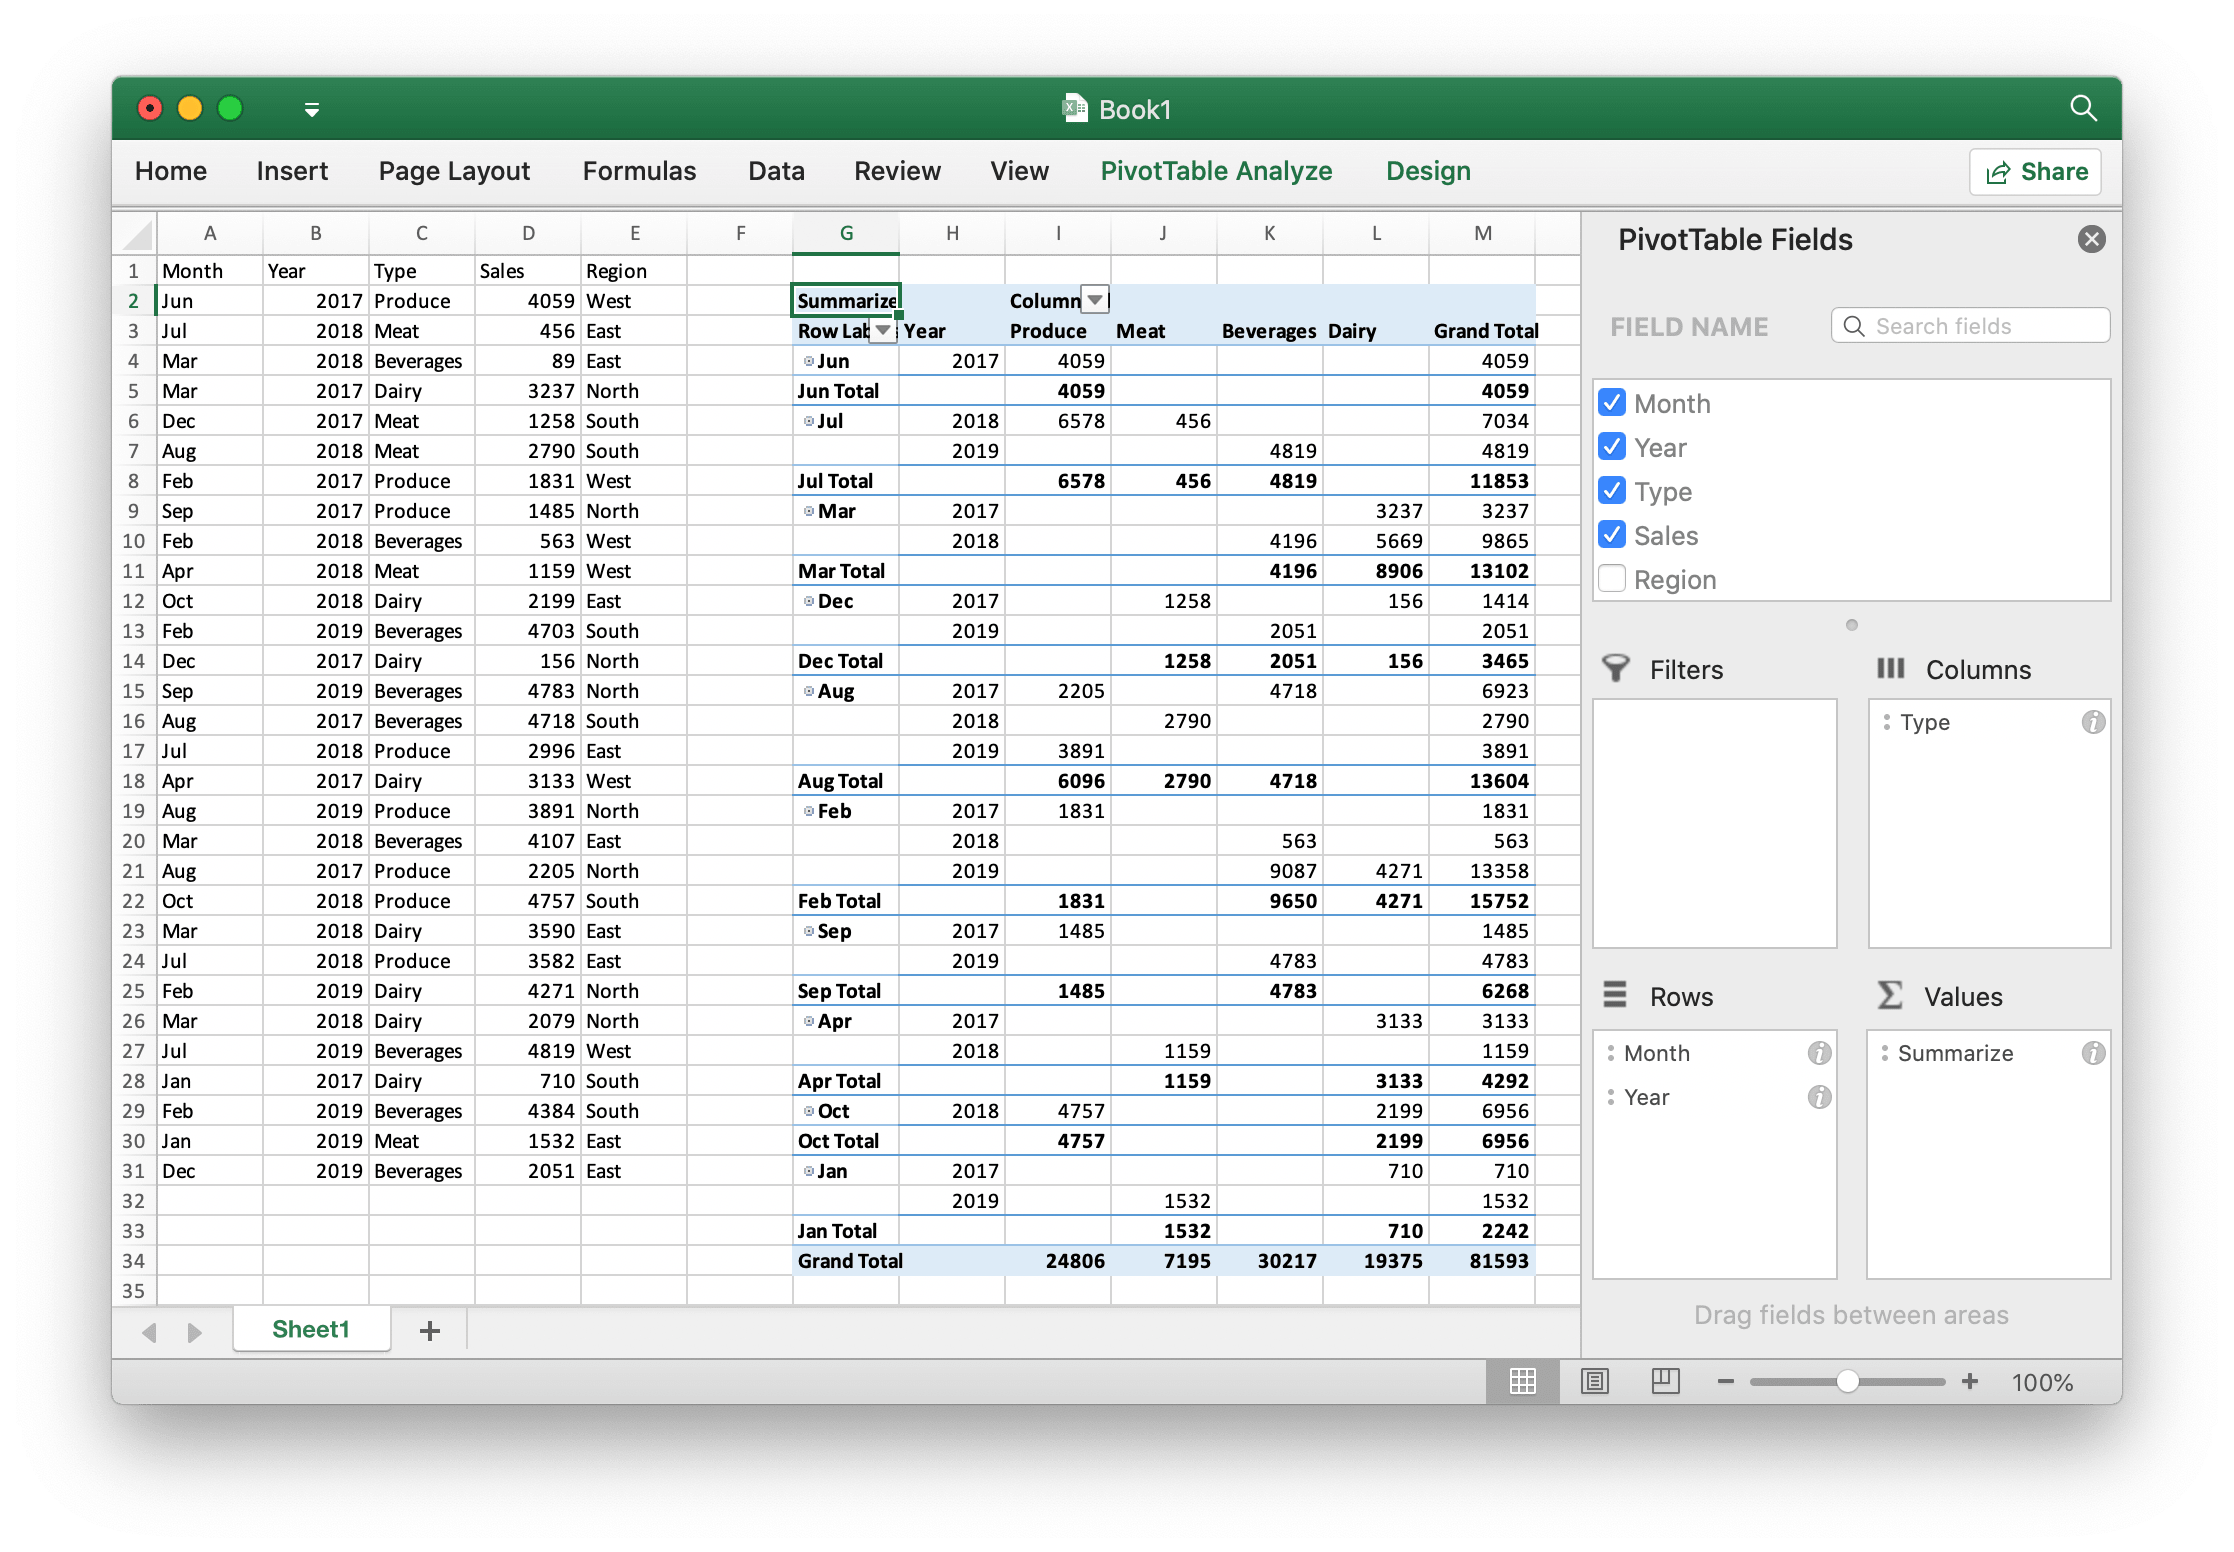
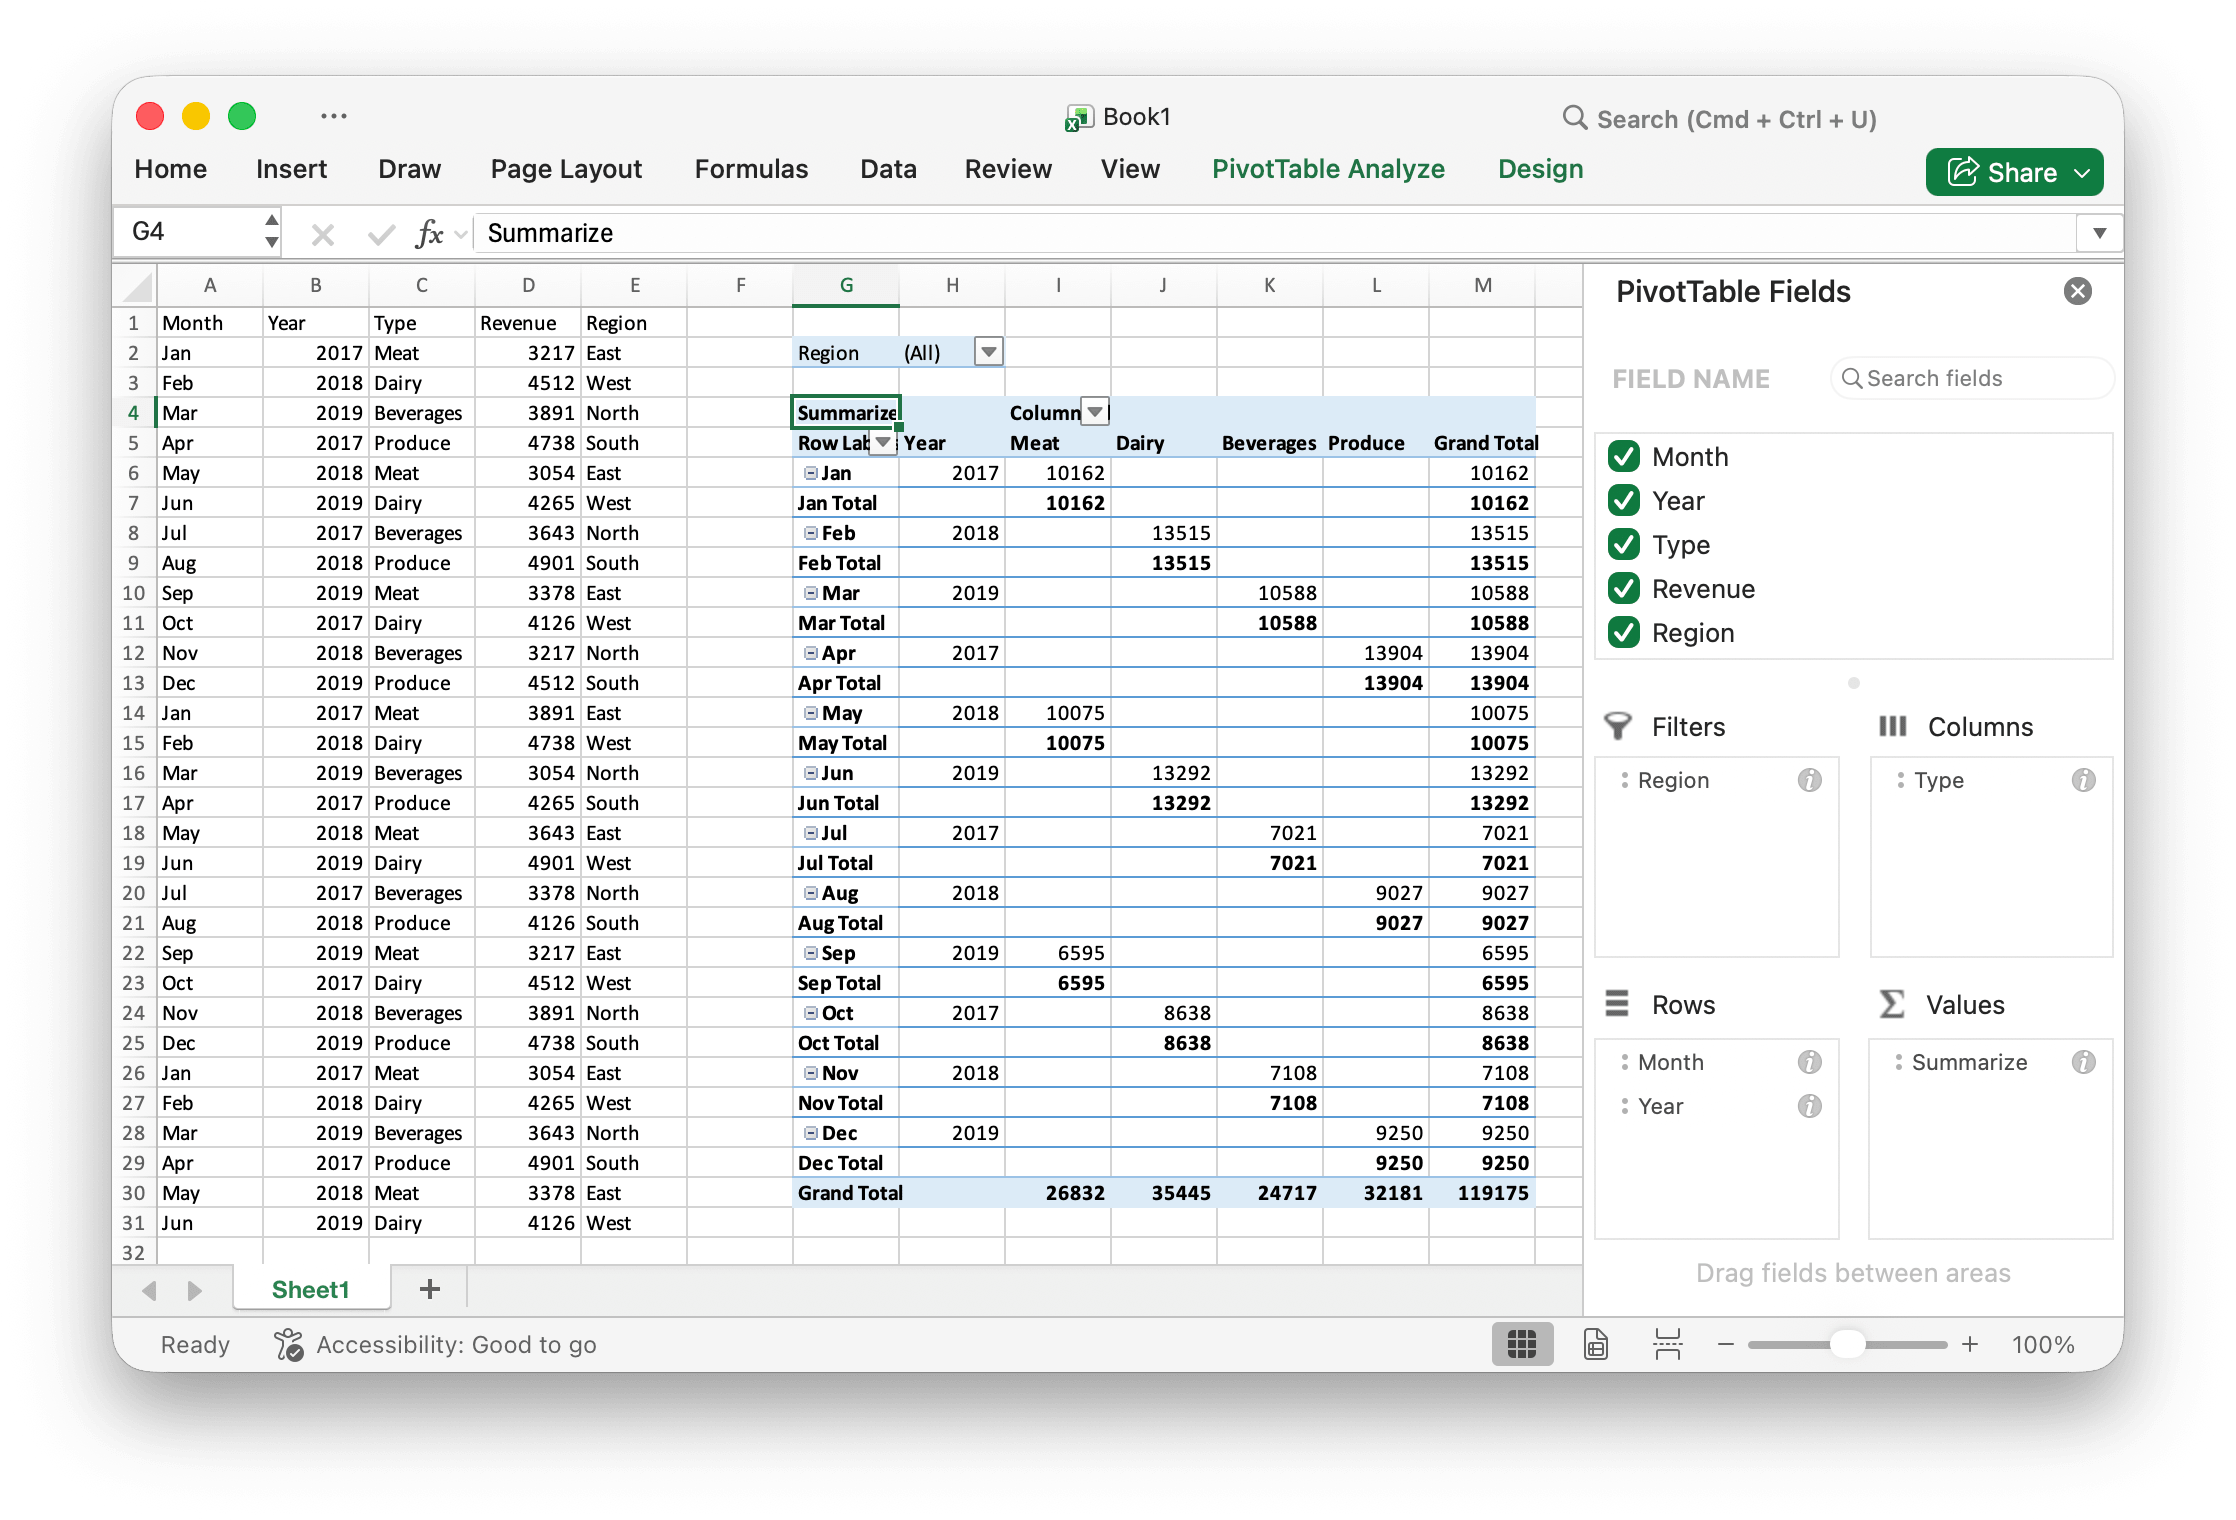
Update en version docs for new SelectedItems fields in PivotTableOptions and SlicerOptions data type
- This related for xuri/excelize#2154, and xuri/excelize#2271

diff --git a/en/pivot.md b/en/pivot.md
@@ -55,6 +55,7 @@ type PivotTableField struct {
     Subtotal        string
     DefaultSubtotal bool
     NumFmt          int
+    SelectedItems   []string
 }
 ```
 
@@ -76,6 +77,10 @@ type PivotTableField struct {
 
 `Name` specifies the name of the data field. Maximum `255` characters are allowed in data field name, excess characters will be truncated.
 
+`SelectedItems` option is used to specify the default selected items in a pivot table field. The selected items must fall within the range of items selected in the pivot table.
+
+`SelectedItems` specifies the default selected items in a pivot table field. The selected items must be values within the cell range referenced by that field.
+
 ## Create pivot table {#AddPivotTable}
 
 ```go
@@ -84,16 +89,15 @@ func (f *File) AddPivotTable(opts *PivotTableOptions) error
 
 AddPivotTable provides the method to add pivot table by given pivot table options.
 
-For example, create a pivot table on the `Sheet1!$G$2:$M$34` area with the region `Sheet1!$A$1:$E$31` as the data source, summarize by sum for sales:
+For example, create a pivot table on the `Sheet1!G4:M31` area with the region `Sheet1!A1:E31` as the data source, summarize by sum for sales:
 
-<p align="center"><img width="1117" src="./images/pivot_table_01.png" alt="create pivot table with excelize using Go"></p>
+<p align="center"><img width="1118" src="./images/pivot_table_01.png" alt="create pivot table with excelize using Go"></p>
 
 ```go
 package main
 
 import (
     "fmt"
-    "math/rand"
 
     "github.com/xuri/excelize/v2"
 )
@@ -105,31 +109,40 @@ func main() {
             fmt.Println(err)
         }
     }()
-    // Create some data in a sheet
+ Create some data in a sheet
     month := []string{"Jan", "Feb", "Mar", "Apr", "May",
         "Jun", "Jul", "Aug", "Sep", "Oct", "Nov", "Dec"}
     year := []int{2017, 2018, 2019}
     types := []string{"Meat", "Dairy", "Beverages", "Produce"}
+    revenue := []int{3217, 4512, 3891, 4738, 3054, 4265, 3643, 4901, 3378, 4126}
     region := []string{"East", "West", "North", "South"}
-    f.SetSheetRow("Sheet1", "A1", &[]string{"Month", "Year", "Type", "Sales", "Region"})
+    if err := f.SetSheetRow(
+        "Sheet1", "A1", &[]string{"Month", "Year", "Type", "Revenue", "Region"},
+    ); err != nil {
+        fmt.Println(err)
+        return
+    }
     for row := 2; row < 32; row++ {
-        f.SetCellValue("Sheet1", fmt.Sprintf("A%d", row), month[rand.Intn(12)])
-        f.SetCellValue("Sheet1", fmt.Sprintf("B%d", row), year[rand.Intn(3)])
-        f.SetCellValue("Sheet1", fmt.Sprintf("C%d", row), types[rand.Intn(4)])
-        f.SetCellValue("Sheet1", fmt.Sprintf("D%d", row), rand.Intn(5000))
-        f.SetCellValue("Sheet1", fmt.Sprintf("E%d", row), region[rand.Intn(4)])
+        f.SetCellValue("Sheet1", fmt.Sprintf("A%d", row), month[(row-2)%len(month)])
+        f.SetCellValue("Sheet1", fmt.Sprintf("B%d", row), year[(row-2)%len(year)])
+        f.SetCellValue("Sheet1", fmt.Sprintf("C%d", row), types[(row-2)%len(types)])
+        f.SetCellValue("Sheet1", fmt.Sprintf("D%d", row), revenue[(row-2)%len(revenue)])
+        f.SetCellValue("Sheet1", fmt.Sprintf("E%d", row), region[(row-2)%len(region)])
     }
     if err := f.AddPivotTable(&excelize.PivotTableOptions{
         DataRange:       "Sheet1!A1:E31",
-        PivotTableRange: "Sheet1!G2:M34",
+        PivotTableRange: "Sheet1!G4:M31",
         Rows: []excelize.PivotTableField{
-            {Data: "Month", DefaultSubtotal: true}, {Data: "Year"}},
+            {Data: "Month", DefaultSubtotal: true}, {Data: "Year"},
+        },
         Filter: []excelize.PivotTableField{
             {Data: "Region"}},
         Columns: []excelize.PivotTableField{
-            {Data: "Type", DefaultSubtotal: true}},
+            {Data: "Type", DefaultSubtotal: true},
+        },
         Data: []excelize.PivotTableField{
-            {Data: "Sales", Name: "Summarize", Subtotal: "Sum"}},
+            {Data: "Revenue", Name: "Summarize", Subtotal: "Sum"},
+        },
         RowGrandTotals: true,
         ColGrandTotals: true,
         ShowDrill:      true,

diff --git a/en/data.md b/en/data.md
@@ -80,24 +80,28 @@ DeleteDataValidation delete data validation by given worksheet name and referenc
 
 ```go
 type SlicerOptions struct {
-    Name          string
-    Table         string
-    Cell          string
-    Caption       string
-    Macro         string
-    Width         uint
-    Height        uint
-    DisplayHeader *bool
-    ItemDesc      bool
-    Format        GraphicOptions
+    Name            string
+    Cell            string
+    TableSheet      string
+    TableName       string
+    Caption         string
+    Macro           string
+    Width           uint
+    Height          uint
+    DisplayHeader   *bool
+    ItemDesc        bool
+    Format          GraphicOptions
+    SelectedItems   []string
 }
 ```
 
 `Name` specifies the slicer name, should be an existing field name of the given table or pivot table, this setting is required.
 
-`Table` specifies the name of the table or pivot table, this setting is required.
-
 `Cell` specifies the left top cell coordinates the position for inserting the slicer, this setting is required.
+
+`TableSheet` specifies the worksheet name of the table or pivot table, this setting is required.
+
+`TableName` specifies the name of the table or pivot table, this setting is required.
 
 `Caption` specifies the caption of the slicer, this setting is optional.
 
@@ -112,6 +116,8 @@ type SlicerOptions struct {
 `ItemDesc` specifies descending (Z-A) item sorting, this setting is optional, and the default setting is `false` (represents ascending).
 
 `Format` specifies the format of the slicer, this setting is optional.
+
+`SelectedItems` option is used to specify the default selected items in a slicer. It is currently only supported for slicers in pivot tables. The selected items must fall within the range of items selected in the pivot table. If the pivot table is created using the [`AddPivotTable`](pivot.md#AddPivotTable) function, the same field must also have its selected item range specified at the time the pivot table is created.
 
 ```go
 func (f *File) AddSlicer(sheet string, opts *SlicerOptions) error

diff --git a/es/README.md b/es/README.md
@@ -9,7 +9,7 @@ Excelize es una biblioteca escrita en Go puro que proporciona un conjunto de fun
 - go.dev: [pkg.go.dev/github.com/xuri/excelize/v2](https://pkg.go.dev/github.com/xuri/excelize/v2)
 - Licencias: [BSD 3-Clause](https://opensource.org/licenses/BSD-3-Clause)
 - Ultima versión: [v2.10.1](https://github.com/xuri/excelize/releases/latest)
-- Tiempo de actualización del documento: 11 de marzo de 2026
+- Tiempo de actualización del documento: 28 de marzo de 2026
 
 ## Misión del proyecto
 

diff --git a/en/README.md b/en/README.md
@@ -9,7 +9,7 @@ Excelize is a library written in pure Go providing a set of functions that allow
 - go.dev: [pkg.go.dev/github.com/xuri/excelize/v2](https://pkg.go.dev/github.com/xuri/excelize/v2)
 - Licenses: [BSD 3-Clause](https://opensource.org/licenses/BSD-3-Clause)
 - Last version: [v2.10.1](https://github.com/xuri/excelize/releases/latest)
-- Document update time: March 11, 2026
+- Document update time: March 28, 2026
 
 ## Project mission
 
